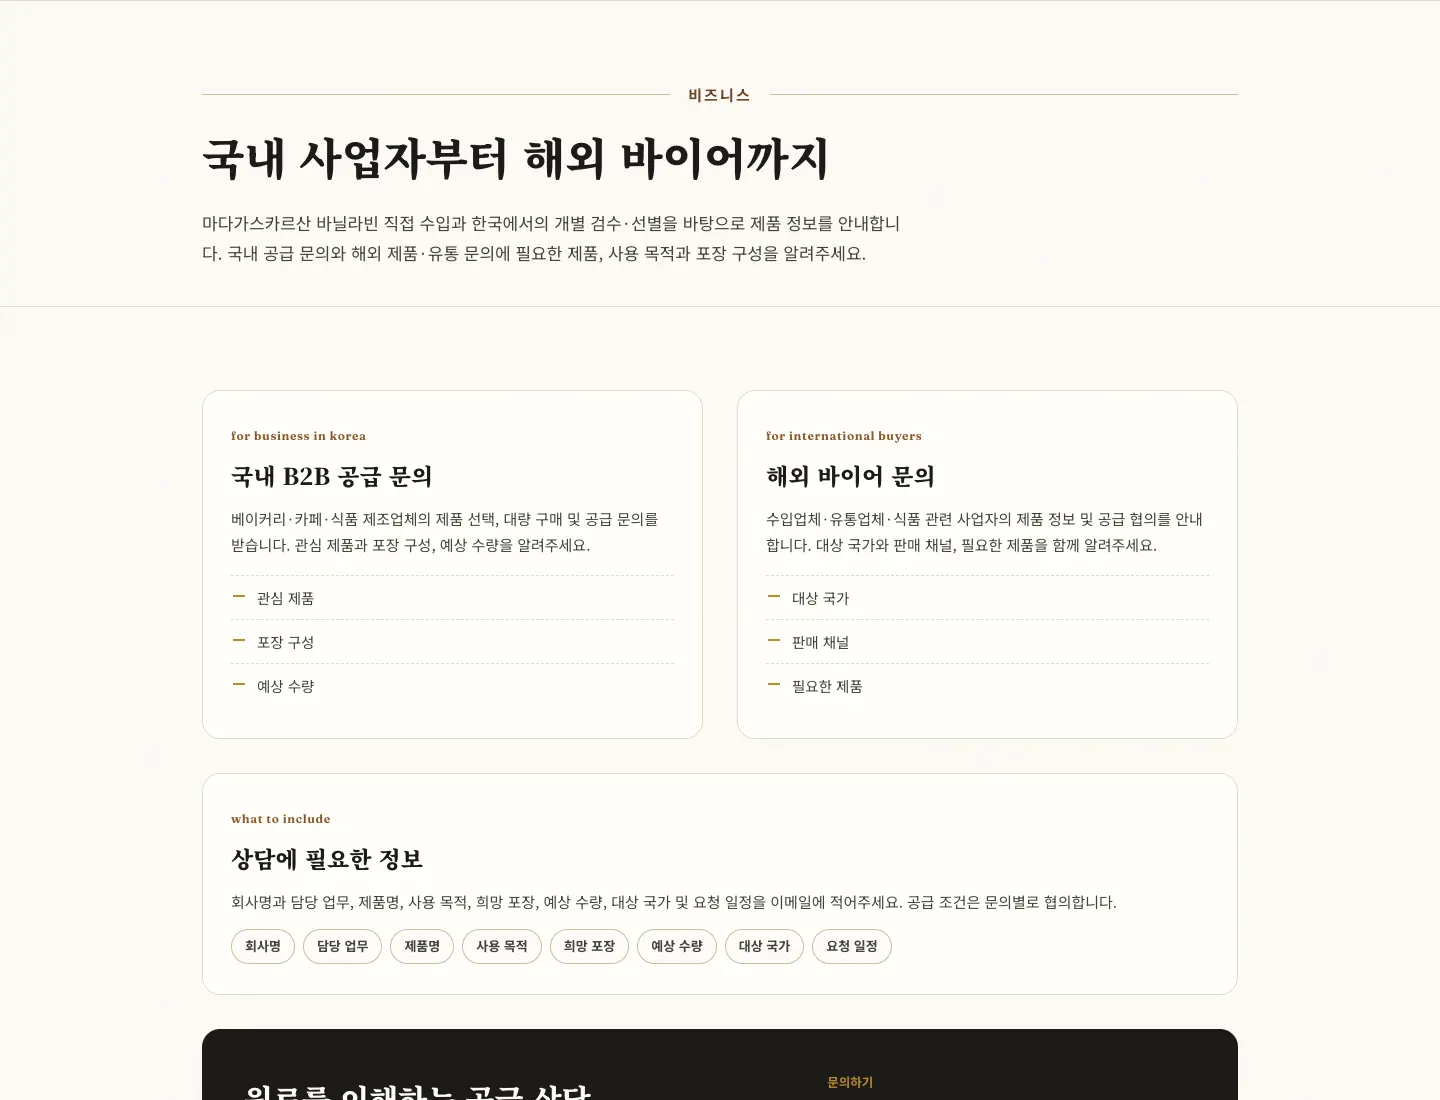
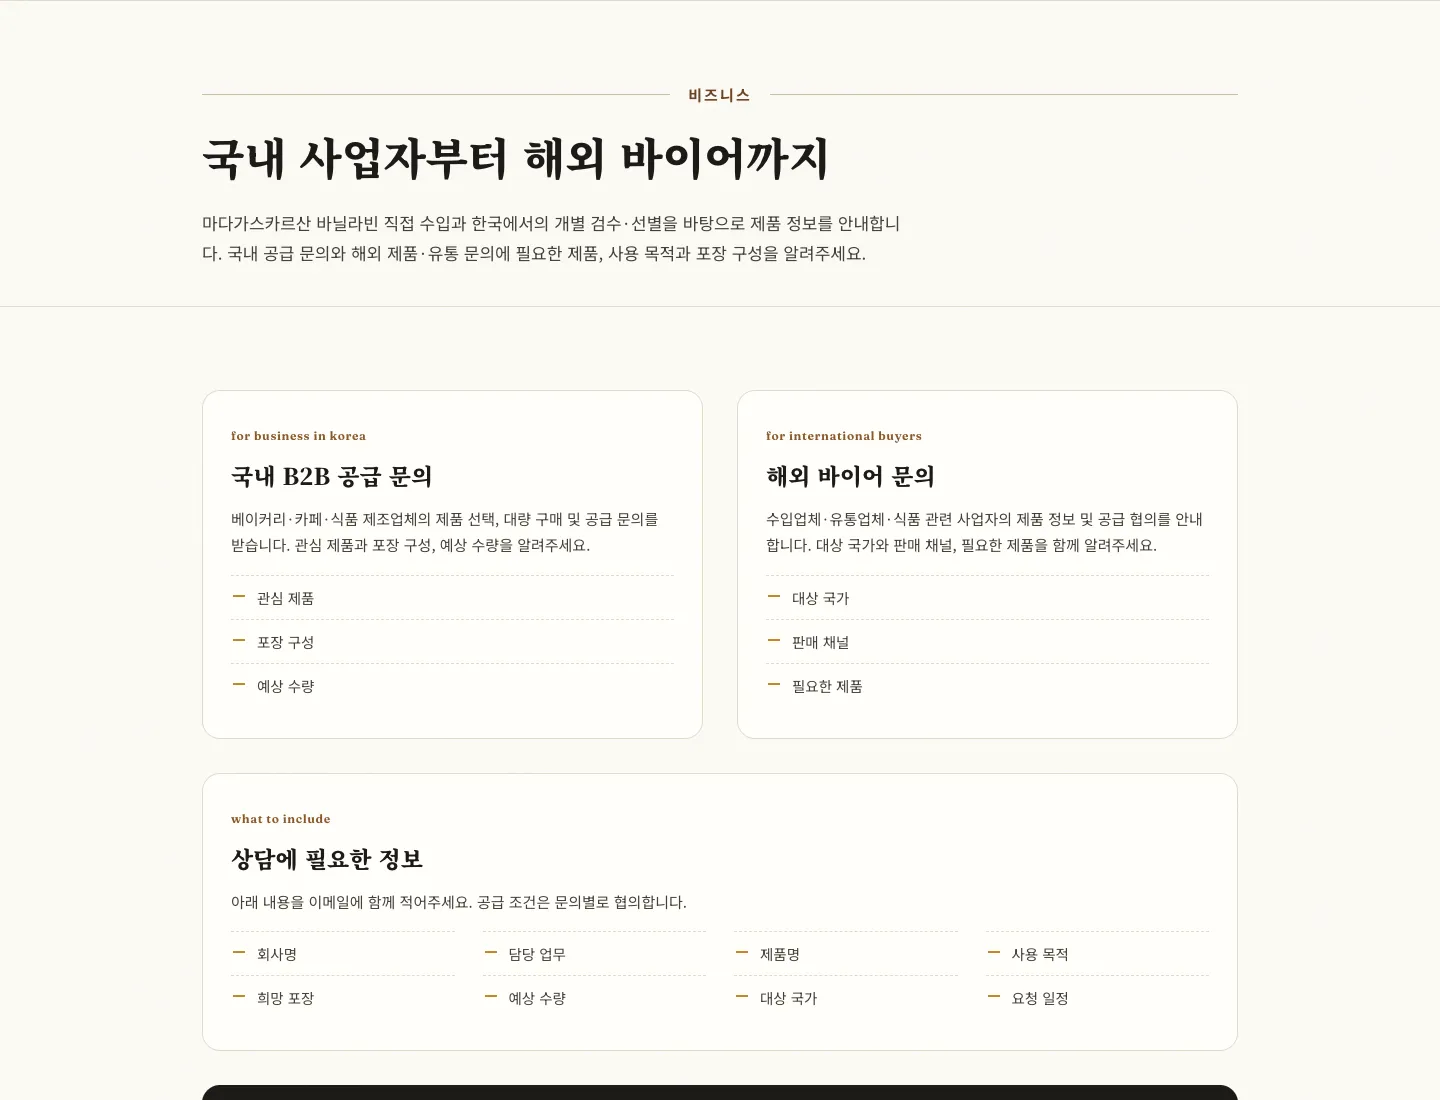
Samples: recapture SANHA VANILLA from the final page
The first captures came from an earlier build. The hosted copy now
serves the final single-file build, so the card and section previews
are recaptured to match.

Claude-Session: https://claude.ai/code/session_015NH459THR3xkigqVDWsEpE

Changed region(s): [[0.125, 0.8036, 0.875, 1.0]]

diff --git a/docs/vanilla-sample_REVIEW.md b/docs/vanilla-sample_REVIEW.md
@@ -33,6 +33,10 @@
 
 독립 리뷰(Codex·Gemini·ECC 에이전트)는 받지 않았다. 데이터 등록 위주 변경이고 기존 생성 스크립트를 썼다.
 
+## 정정 (2026-11-19 23시): 최종본으로 교체
+
+처음 올린 파일(다운로드 폴더의 `SANHA VANILLA 사이트.html`)은 최종본이 아니었다. 최종본은 `dev/sanha_vanilla/sanha-vanilla-site-single.html`(11월 19일 00:20, 히어로가 바닐라 농장 장면)이다. 이 파일에 noindex 태그만 더해 getsite-vanilla에 다시 배포했고, 캡처 10장을 새로 찍어 v4·v5에 교체한 뒤 getsite-my를 다시 배포했다. 운영 복사본과 운영 이미지가 로컬과 일치하고, 운영 카드 확인 14개 항목이 통과했다. 캡처 교체분은 아직 커밋하지 않았다.
+
 ## 남은 것 / 사용자가 할 일
 
 1. **Apps Script (완료, 2026-11-19 22:01)**: 운영 계정으로 재로그인 후 `clasp push` 했다. 푸시 전 원격은 로컬과 `parts-snapshot` 하나만 달랐고(vanilla 추가분 38줄, 삭제 없음), 푸시 후 다시 내려받아 5개 파일이 로컬과 일치함을 확인했다. `PARTS`는 5분 주기 트리거로 도는 `brief-sync.gs`만 쓰므로 HEAD 반영으로 충분하고, 버전 고정된 웹앱 배포(@1, `ref-upload.gs`의 `doPost`)는 건드리지 않았다. 푸시 전 원격 사본은 세션 스크래치패드에만 있다. 아래는 배포 전 상태 설명이다: 그 전에는 vanilla로 들어온 접수 메일에 샘플 이름 대신 `vanilla`가 보이고, vanilla 화면을 참고로 고른 섹션은 "참고 화면 확인 후 연락드리겠습니다"로 나가며 운영자에게 "참고 화면 확인 필요" 알림이 온다(`brief-sync.gs:188-206`, 오류 없이 처리). 주문 저장 자체는 된다.
